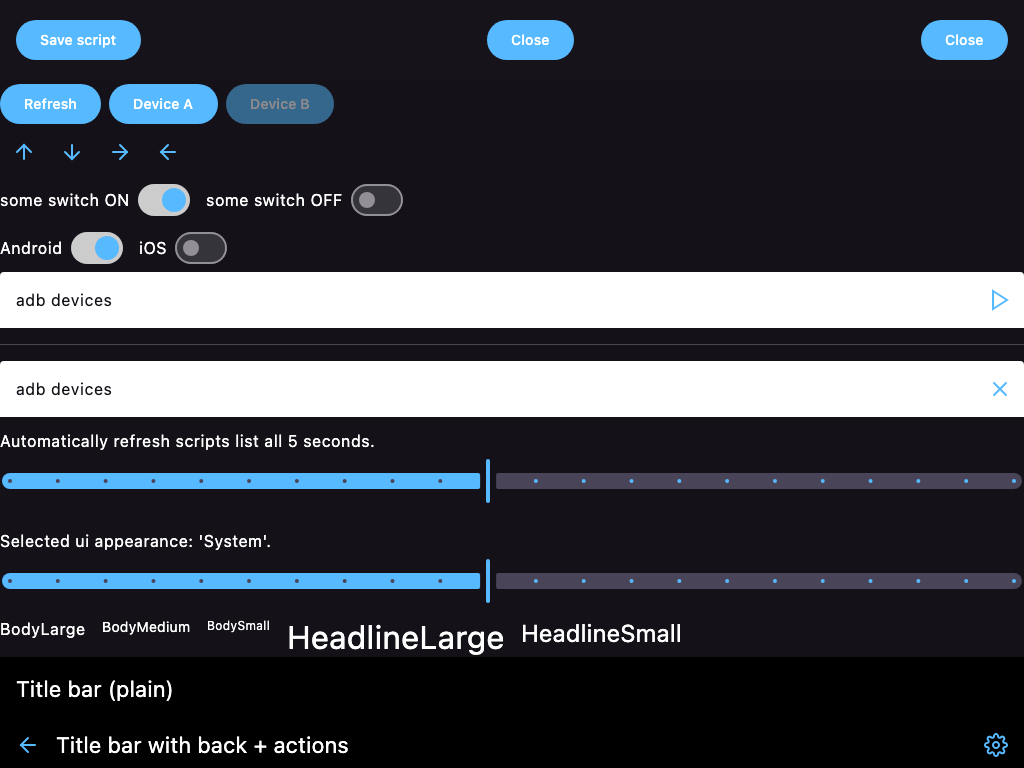
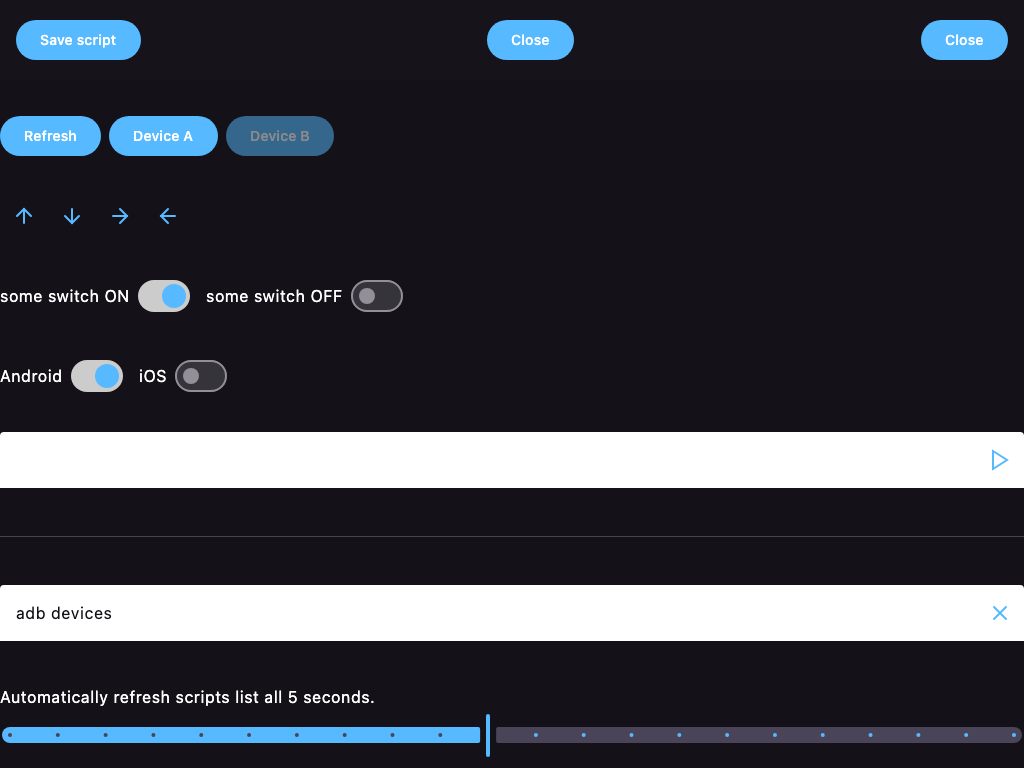
Fix/Improve

diff --git a/composeApp/src/commonTest/kotlin/de/joz/appcommander/ui/misc/UiElementsTest.kt b/composeApp/src/commonTest/kotlin/de/joz/appcommander/ui/misc/UiElementsTest.kt
@@ -1,7 +1,6 @@
 package de.joz.appcommander.ui.misc
 
 import androidx.compose.foundation.background
-import androidx.compose.foundation.layout.Arrangement
 import androidx.compose.foundation.layout.Column
 import androidx.compose.foundation.layout.fillMaxSize
 import androidx.compose.material3.MaterialTheme
@@ -58,7 +57,6 @@ class UiElementsTest {
 							Modifier
 								.fillMaxSize()
 								.background(MaterialTheme.colorScheme.background),
-						verticalArrangement = Arrangement.SpaceEvenly,
 					) {
 						if (darkMode) {
 							PreviewBottomBar_Dark()
